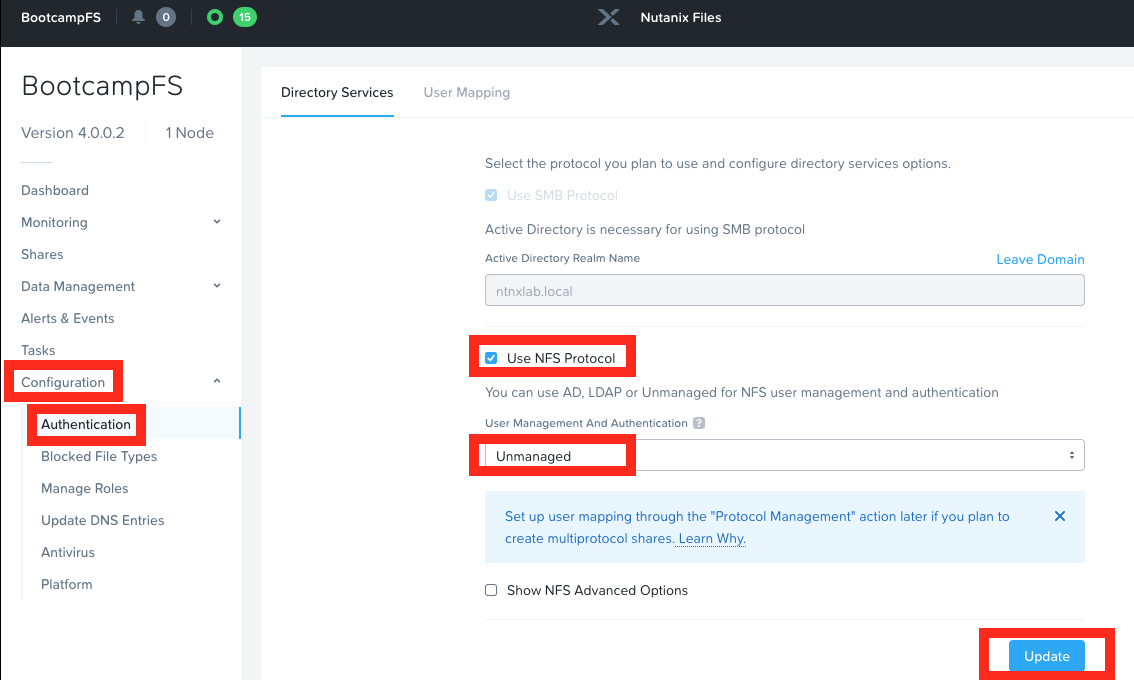
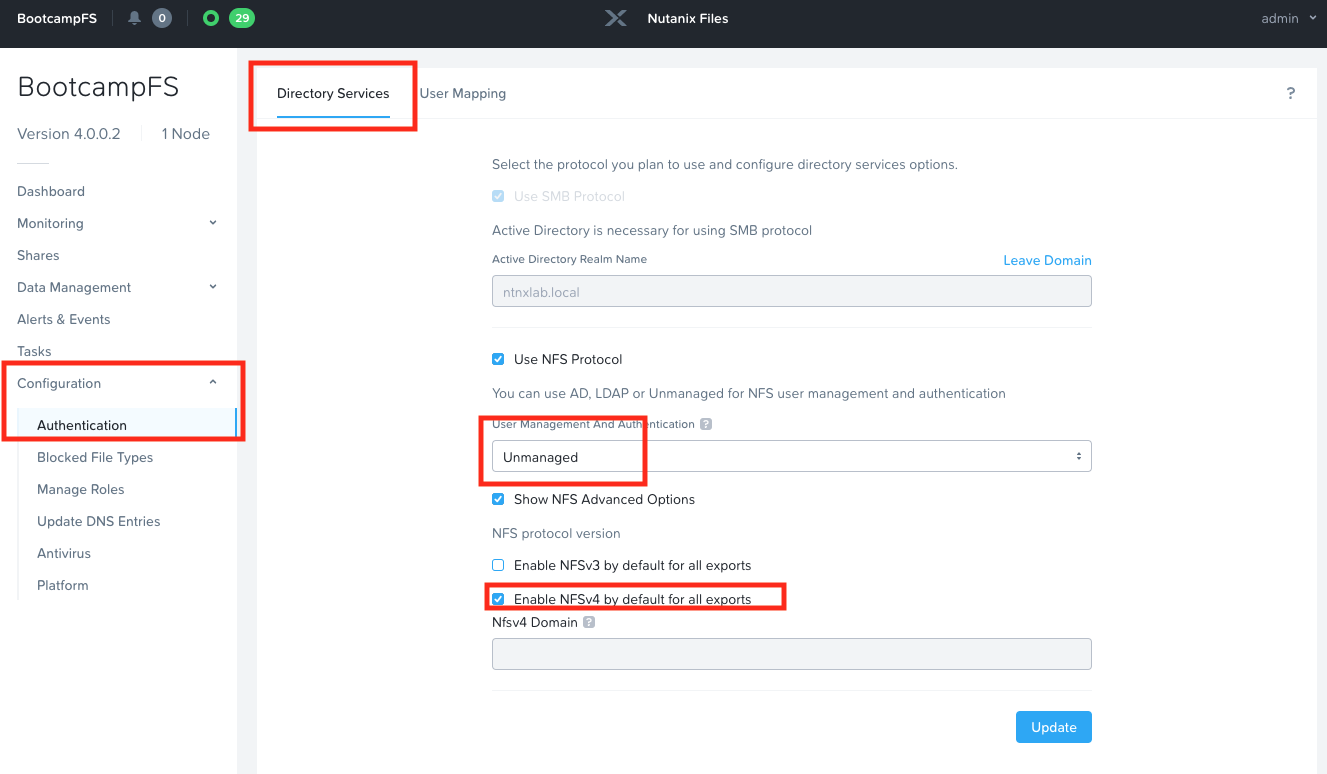
Thu Feb 10 12:56:59 JST 2022

diff --git a/files_nfs_export/files_nfs_export.rst b/files_nfs_export/files_nfs_export.rst
@@ -19,17 +19,24 @@ Enabling NFS Protocol
 
    Enabling NFS protocol only needs to be performed once per Files server, and may have already been completed in your environment. If NFS is already enabled, proceed to `Creating the Export`_.
 
+
 #. In **Prism Element > File Server**, select your file server and click **Launch Files Console**.
-
-#. The **Files Console** will open in a new browser tab
-
-#. Click on **Configuration > Authentication**
 
    .. figure:: images/29b.png
 
+#. The **Files Console** will open in a new browser tab
+
+#. Go to **Configuration** > **Authentication** > **Directory Services**
+
 #. Select **Use NFS Protocol** with **Unmanaged** User Management and Authentication, and click **Update**.
 
+#. Uncheck **Enable NFSv3 by default for all exports**
+
+#. Check **Enable NFSv4 by default for all exports** as we will only test NFS4 exports in this lab
+
    .. figure:: images/30b.png
+
+#. Click on **Update** 
 
 Creating the Export
 ...................
